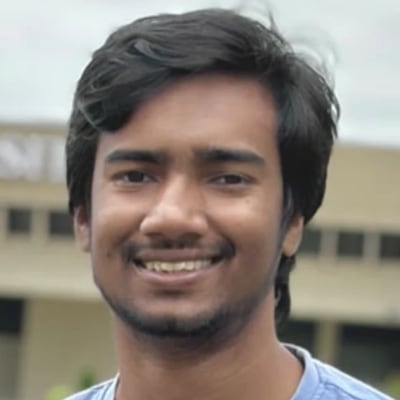
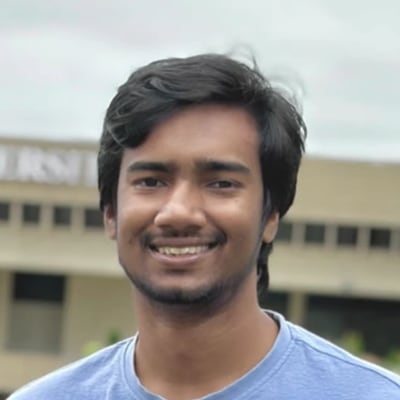
Widen Shanto's portrait, add Shail's program, show open intern slots

diff --git a/lib/data.tsx b/lib/data.tsx
@@ -144,18 +144,24 @@ export const labMembers: LabMember[] = [
   {
     name: "Shail Mehta",
     role: "intern",
+    title: "MSc in Engineering Management",
     since: "Fall 2026",
     photo: "/members/shail.jpg",
   },
 ];
 
 // Sections render in this order. A section with no members is skipped, so an
-// empty tier never leaves a bare heading on the page.
-export const memberGroups: { role: MemberRole; label: string }[] = [
+// empty tier never leaves a bare heading on the page. "openings" adds that many
+// placeholder cards after the real ones, to fill out a short row.
+export const memberGroups: {
+  role: MemberRole;
+  label: string;
+  openings?: number;
+}[] = [
   { role: "pi", label: "Principal Investigator" },
-  { role: "phd", label: "PhD Students" },
+  { role: "phd", label: "Doctoral Students" },
   { role: "masters", label: "Master's Students" },
-  { role: "intern", label: "Interns" },
+  { role: "intern", label: "Interns", openings: 2 },
 ];
 
 export const membersByRole = (role: MemberRole) =>

diff --git a/components/VacantCard.tsx b/components/VacantCard.tsx
@@ -1,0 +1,19 @@
+// Placeholder for an unfilled slot, so a tier with one person does not read as
+// a half-empty grid. The count in the tier heading still reflects real members.
+export default function VacantCard() {
+  return (
+    <div className="flex flex-col items-center text-center border border-dashed border-stone-300 dark:border-stone-700 rounded-2xl px-5 py-7">
+      <div
+        className="w-24 h-24 sm:w-28 sm:h-28 rounded-full border-2 border-dashed border-stone-300 dark:border-stone-700 shrink-0 flex items-center justify-center text-stone-300 dark:text-stone-600"
+        aria-hidden="true"
+      >
+        <svg className="w-7 h-7" fill="none" stroke="currentColor" viewBox="0 0 24 24">
+          <path strokeLinecap="round" strokeWidth={1.8} d="M12 6v12M6 12h12" />
+        </svg>
+      </div>
+      <p className="mt-5 text-sm font-semibold text-stone-400 dark:text-stone-500 leading-snug">
+        Vacant
+      </p>
+    </div>
+  );
+}

diff --git a/components/TeamRoster.tsx b/components/TeamRoster.tsx
@@ -1,6 +1,7 @@
 import Link from "next/link";
 import MemberAvatar from "./MemberAvatar";
 import MemberCard from "./MemberCard";
+import VacantCard from "./VacantCard";
 import { memberGroups, membersByRole } from "../lib/data";
 import { PERSON } from "../lib/seo";
 
@@ -63,6 +64,9 @@ export default function TeamRoster({ showLinks = true }: { showLinks?: boolean }
             <div className="grid grid-cols-1 sm:grid-cols-2 lg:grid-cols-3 gap-5">
               {tier.people.map((m) => (
                 <MemberCard key={m.name} member={m} />
+              ))}
+              {Array.from({ length: tier.openings ?? 0 }, (_, i) => (
+                <VacantCard key={`vacant-${tier.role}-${i}`} />
               ))}
             </div>
           </div>
